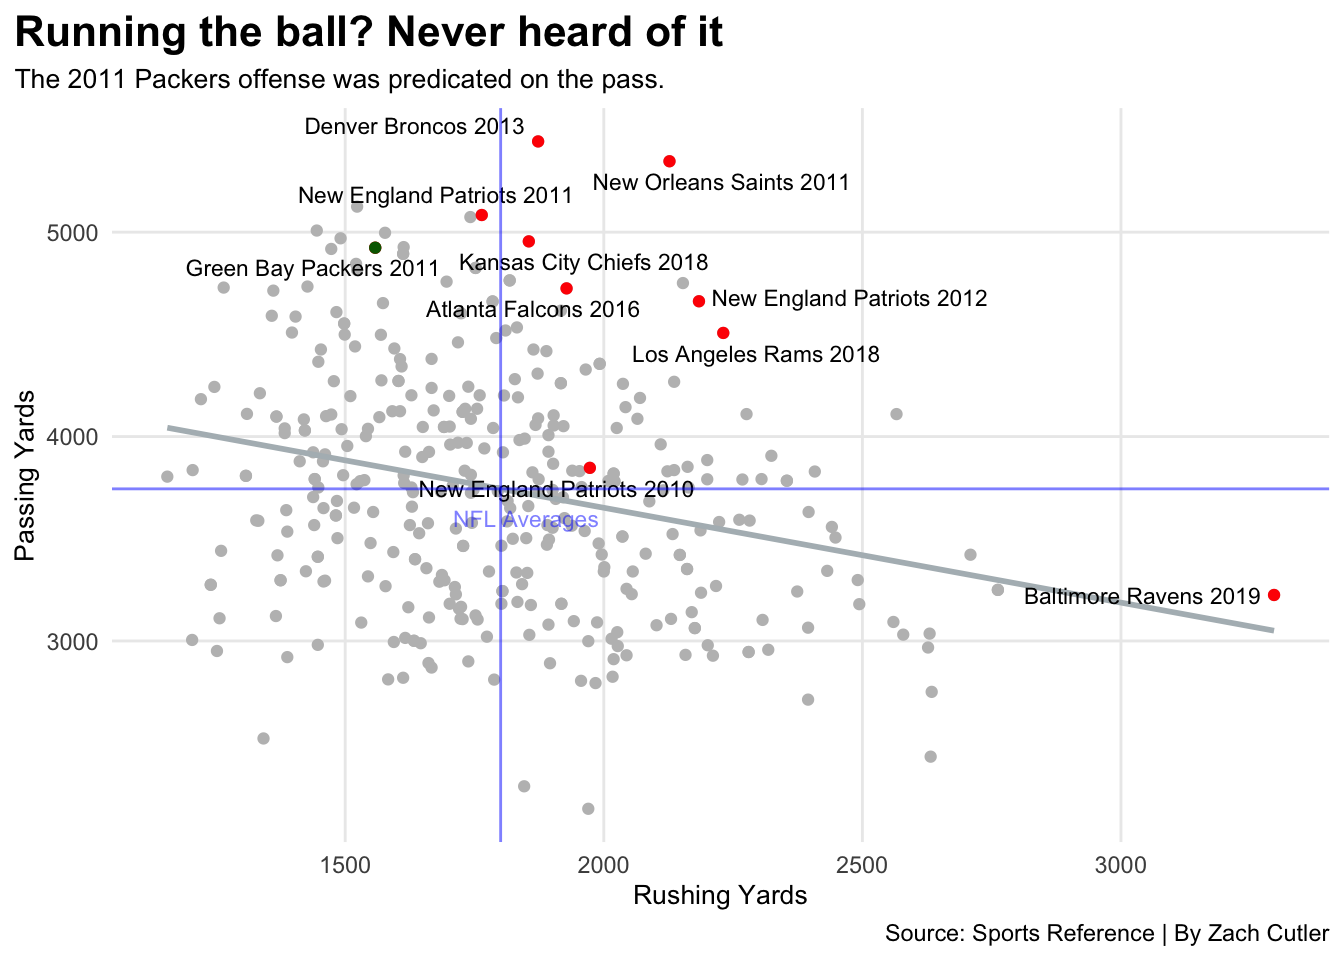
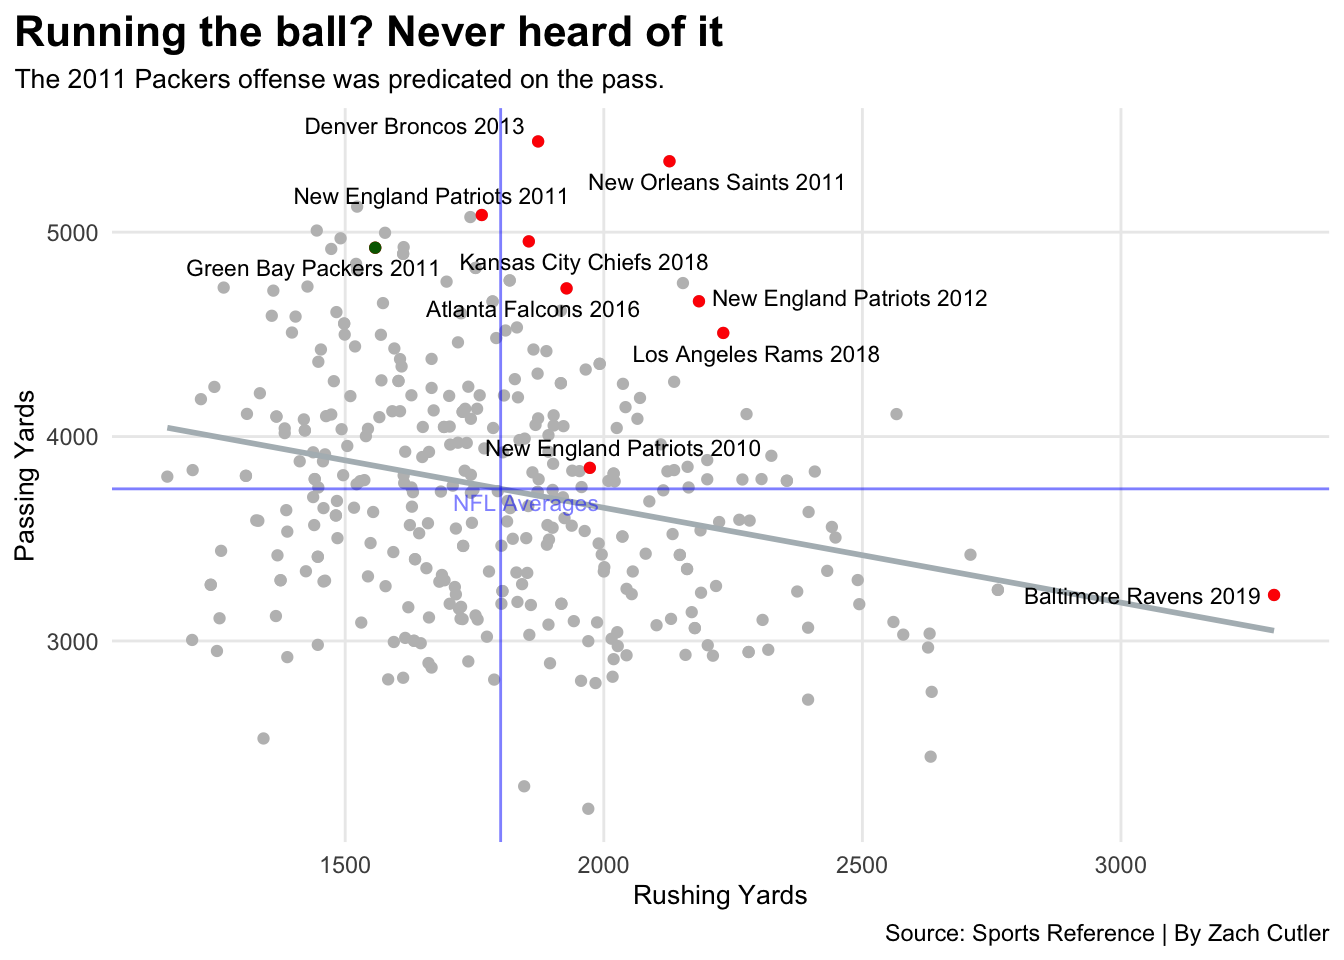
NEw new

diff --git a/posts/where-did-the-2011-packers-rank-among-the-best-offenses-of-the-2010s/index.html b/posts/where-did-the-2011-packers-rank-among-the-best-offenses-of-the-2010s/index.html
@@ -206,7 +206,7 @@ code span.wa { color: #60a0b0; font-weight: bold; font-style: italic; } /* Warni
 
 
 
-<p>The Green Bay Packers are currently 4-8 and have less than a three percent chance of making the playoffs. This season has been a lost cause. As Aaron Rodgers continues to age and the Packers waste yet another year of his career, I figure rather than wallow in self-pity, I’d look back to a simpler time, 2011.</p>
+<p>The Green Bay Packers are currently 4-8 and have less than a three percent chance of making the playoffs. This season has been a lost cause. As Aaron Rodgers continues to age and the Packers waste yet another year of his career, I figured rather than wallow in self-pity, I’d look back to a simpler time, 2011.</p>
 <p>After winning the Super Bowl in 2010, the Packers were viewed as the next dynasty, and rightfully so. Their offense was loaded with talent. Led by Aaron Rodgers, the Packers offense featured a plethora of weapons including Greg Jennings, Randall Cobb, Jordy Nelson, James Jones, Donald Driver and Jermichael Finley among others.</p>
 <p>Despite going 15-1 and Rodgers winning the MVP, this team often is often overlooked, largely in part because the Packers lost in the divisional round and 2011 was over a decade ago. With the rise of social media and offensive stars like Patrick Mahomes regularly making highlight-worthy plays and leading their team to score 30-plus points, the 2011 Packers have been forgotten.</p>
 <p>But just how good were the Packers relative to other high-powered offenses of the 2010s?</p>
@@ -428,7 +428,7 @@ code span.wa { color: #60a0b0; font-weight: bold; font-style: italic; } /* Warni
 </div>
 </div>
 <p>The Packers were not an easy team to stop. They scored a touchdown on over 65 percent of trips to the red zone and converted just under 50 percent of third downs. In other words, they moved consistently moved the chains and finished drives. Needless to say, it’s tough to defend an offense when virtually every wide receiver is a mismatch for your defense.</p>
-<p>However, compared to the top 10 scoring teams, the Packers were in the middle of the pack. Teams like the 2018 Kansas City Chiefs and 2013 Denver Broncos were more efficient in the red zone and the 2011 New Orleans Saints were almost 10 percent better on third down.</p>
+<p>However, compared to the other top 10 scoring teams of the 2010s, the Packers were in the middle of the pack. Teams like the 2018 Kansas City Chiefs and 2013 Denver Broncos were more efficient in the red zone and the 2011 New Orleans Saints were almost 10 percent better on third down.</p>
 <div class="cell">
 <details>
 <summary>Code</summary>
@@ -454,7 +454,7 @@ code span.wa { color: #60a0b0; font-weight: bold; font-style: italic; } /* Warni
 <span id="cb3-20"><a href="#cb3-20" aria-hidden="true" tabindex="-1"></a>    ) <span class="sc">+</span></span>
 <span id="cb3-21"><a href="#cb3-21" aria-hidden="true" tabindex="-1"></a>  <span class="fu">labs</span>(</span>
 <span id="cb3-22"><a href="#cb3-22" aria-hidden="true" tabindex="-1"></a>    <span class="at">title=</span> <span class="st">"Protecting the ball and scoring is a recipe for success in the NFL"</span>,</span>
-<span id="cb3-23"><a href="#cb3-23" aria-hidden="true" tabindex="-1"></a>    <span class="at">subtitle=</span> <span class="st">"The 2011 Packers excelled at scoring a lot while not turning the ball over"</span>, </span>
+<span id="cb3-23"><a href="#cb3-23" aria-hidden="true" tabindex="-1"></a>    <span class="at">subtitle=</span> <span class="st">"The 2011 Packers scored on almost half of their drives while rarely turning the ball over."</span>, </span>
 <span id="cb3-24"><a href="#cb3-24" aria-hidden="true" tabindex="-1"></a>    <span class="at">caption =</span> <span class="st">"Source: Sports Reference | By Zach Cutler"</span>,</span>
 <span id="cb3-25"><a href="#cb3-25" aria-hidden="true" tabindex="-1"></a>    <span class="at">x =</span> <span class="st">"Scoring percentage"</span>,</span>
 <span id="cb3-26"><a href="#cb3-26" aria-hidden="true" tabindex="-1"></a>    <span class="at">y=</span> <span class="st">"Turnover percentage"</span></span>
@@ -464,7 +464,7 @@ code span.wa { color: #60a0b0; font-weight: bold; font-style: italic; } /* Warni
 <p><img src="index_files/figure-html/unnamed-chunk-3-1.png" class="img-fluid" width="672"></p>
 </div>
 </div>
-<p>Where the 2011 Packers really shined was their ability to protect the ball. They only turned the ball over on 6.1 percent of drives leading to 48.3 percent of drives resulting in a score.</p>
+<p>Where the 2011 Packers really shined was their ability to protect the ball. They only turned the ball over on 6.1 percent of drives leading to 48.3 percent of drives resulting in a score. It is hard to have any success on defense when the opposing offense doesn’t give the ball away and scores every other drive.</p>
 <div class="cell">
 <details>
 <summary>Code</summary>
@@ -477,7 +477,7 @@ code span.wa { color: #60a0b0; font-weight: bold; font-style: italic; } /* Warni
 <span id="cb4-7"><a href="#cb4-7" aria-hidden="true" tabindex="-1"></a>  ) <span class="sc">+</span></span>
 <span id="cb4-8"><a href="#cb4-8" aria-hidden="true" tabindex="-1"></a>  <span class="fu">geom_vline</span>(<span class="at">xintercept =</span><span class="fl">1800.56</span>, <span class="at">color=</span><span class="st">"blue"</span>, <span class="at">alpha=</span>.<span class="dv">5</span>) <span class="sc">+</span></span>
 <span id="cb4-9"><a href="#cb4-9" aria-hidden="true" tabindex="-1"></a>  <span class="fu">geom_hline</span>(<span class="at">yintercept =</span> <span class="fl">3744.188</span>  , <span class="at">color=</span><span class="st">"blue"</span>,<span class="at">alpha=</span>.<span class="dv">5</span>) <span class="sc">+</span></span>
-<span id="cb4-10"><a href="#cb4-10" aria-hidden="true" tabindex="-1"></a>  <span class="fu">geom_text</span>(<span class="fu">aes</span>(<span class="at">x=</span><span class="dv">1850</span>, <span class="at">y=</span><span class="dv">3600</span>), <span class="at">label=</span><span class="st">"NFL Averages"</span>, <span class="at">color=</span><span class="st">"blue"</span>, <span class="at">alpha=</span>.<span class="dv">5</span>, <span class="at">size=</span><span class="dv">3</span>)<span class="sc">+</span></span>
+<span id="cb4-10"><a href="#cb4-10" aria-hidden="true" tabindex="-1"></a>  <span class="fu">geom_text</span>(<span class="fu">aes</span>(<span class="at">x=</span><span class="dv">1850</span>, <span class="at">y=</span><span class="dv">3680</span>), <span class="at">label=</span><span class="st">"NFL Averages"</span>, <span class="at">color=</span><span class="st">"blue"</span>, <span class="at">alpha=</span>.<span class="dv">5</span>, <span class="at">size=</span><span class="dv">3</span>)<span class="sc">+</span></span>
 <span id="cb4-11"><a href="#cb4-11" aria-hidden="true" tabindex="-1"></a><span class="fu">theme_minimal</span>() <span class="sc">+</span></span>
 <span id="cb4-12"><a href="#cb4-12" aria-hidden="true" tabindex="-1"></a>   <span class="fu">theme</span>(</span>
 <span id="cb4-13"><a href="#cb4-13" aria-hidden="true" tabindex="-1"></a>    <span class="at">plot.title =</span> <span class="fu">element_text</span>(<span class="at">size =</span> <span class="dv">16</span>, <span class="at">face =</span> <span class="st">"bold"</span>),</span>
@@ -498,8 +498,8 @@ code span.wa { color: #60a0b0; font-weight: bold; font-style: italic; } /* Warni
 <p><img src="index_files/figure-html/unnamed-chunk-4-1.png" class="img-fluid" width="672"></p>
 </div>
 </div>
-<p>Head coach Mike McCarthy must’ve done his research on the inefficiencies of running the ball because the Packers offense was built solely on the pass. In fact, they had over three times the amount of pass yards than they had rushing. This makes sense considering Ryan Grant was the starting running back and the receiving core was so deep that Randall Cobb was the fifth wide receiver.</p>
-<p>If there was one person to credit the success of the offense, it would be Aaron Rodgers.</p>
+<p>Head coach Mike McCarthy must have done his research on the inefficiencies of running the ball because the Packers offense was built solely on the pass. In fact, they had over three times the amount of pass yards than they had rushing. This makes sense considering Ryan Grant was the starting running back and the receiving core was so deep that Randall Cobb was the fifth wide receiver.</p>
+<p>But if there was one person to credit the success of the offense, it would be Aaron Rodgers.</p>
 <div class="cell">
 <details>
 <summary>Code</summary>
@@ -543,7 +543,7 @@ code span.wa { color: #60a0b0; font-weight: bold; font-style: italic; } /* Warni
 <p><img src="index_files/figure-html/unnamed-chunk-5-1.png" class="img-fluid" width="672"></p>
 </div>
 </div>
-<p>In 2011, Rodgers had arguably his best season, throwing for 4643 yards, 45 touchdowns and six interceptions (credit the other six touchdowns and two picks to Matt Flynn). The Packers 6.375 touchdown to interception ratio was second only to the Tom Brady-led 2010 Patriots (7.4).</p>
+<p>In 2011, Rodgers had arguably his best season, throwing for 4643 yards, 45 touchdowns and six interceptions (credit the other six touchdowns and two picks to Matt Flynn). Rodgers had a whopping 9.25 yards per attempt.The Packers 6.375 touchdown to interception ratio was second only to the Tom Brady-led 2010 Patriots (7.4).</p>
 <div class="cell">
 <details>
 <summary>Code</summary>

diff --git a/index.html b/index.html
@@ -164,7 +164,7 @@ ul.task-list li input[type="checkbox"] {
 
 <div class="quarto-listing quarto-listing-container-default" id="listing-listing">
 <div class="list quarto-listing-default">
-<div class="quarto-post image-right" data-index="0" data-categories="football,nfl,analysis" data-listing-date-sort="1669788000000" data-listing-file-modified-sort="1669847549316" data-listing-reading-time-sort="10.625">
+<div class="quarto-post image-right" data-index="0" data-categories="football,nfl,analysis" data-listing-date-sort="1669788000000" data-listing-file-modified-sort="1669911135183" data-listing-reading-time-sort="10.82">
 <div class="thumbnail">
 <p><a href="./posts/where-did-the-2011-packers-rank-among-the-best-offenses-of-the-2010s/index.html"> <img src="./posts/where-did-the-2011-packers-rank-among-the-best-offenses-of-the-2010s/image1.png" class="thumnail-image"> </a></p>
 </div>
@@ -190,7 +190,7 @@ analysis
 </div>
 <a href="./posts/where-did-the-2011-packers-rank-among-the-best-offenses-of-the-2010s/index.html">
 <div class="listing-description">
-The Green Bay Packers are currently 4-8 and have less than a three percent chance of making the playoffs. This season has been a lost cause. As Aaron Rodgers continues to age and the Packers waste yet another year of his career, I figure rather than wallow in self-pity, I’d look back to a simpler time, 2011.
+The Green Bay Packers are currently 4-8 and have less than a three percent chance of making the playoffs. This season has been a lost cause. As Aaron Rodgers continues to age and the Packers waste yet another year of his career, I figured rather than wallow in self-pity, I’d look back to a simpler time, 2011.
 </div>
 </a>
 </div>
